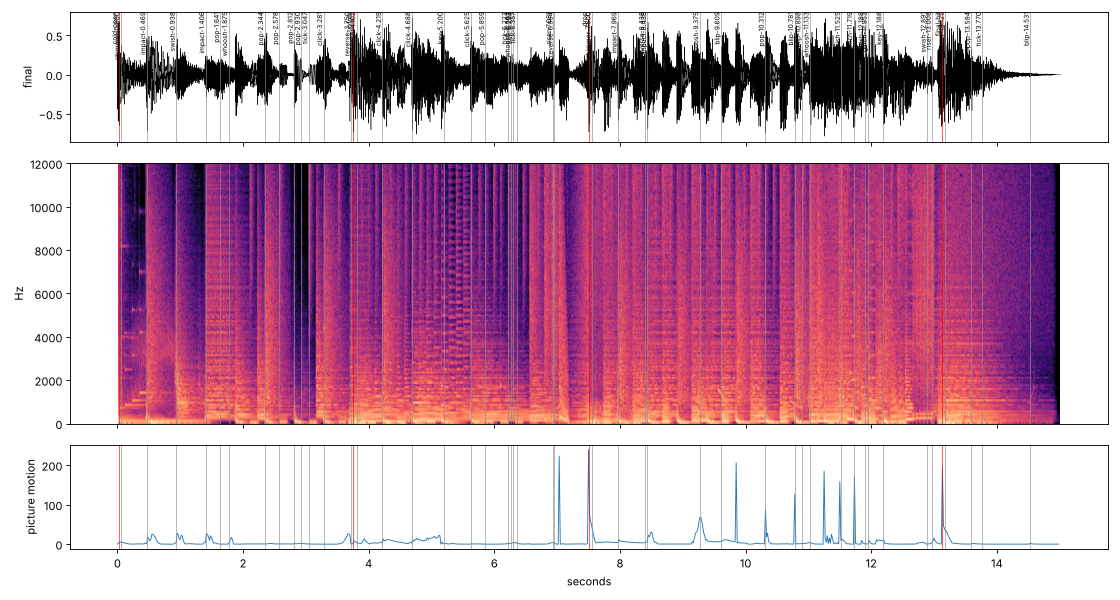
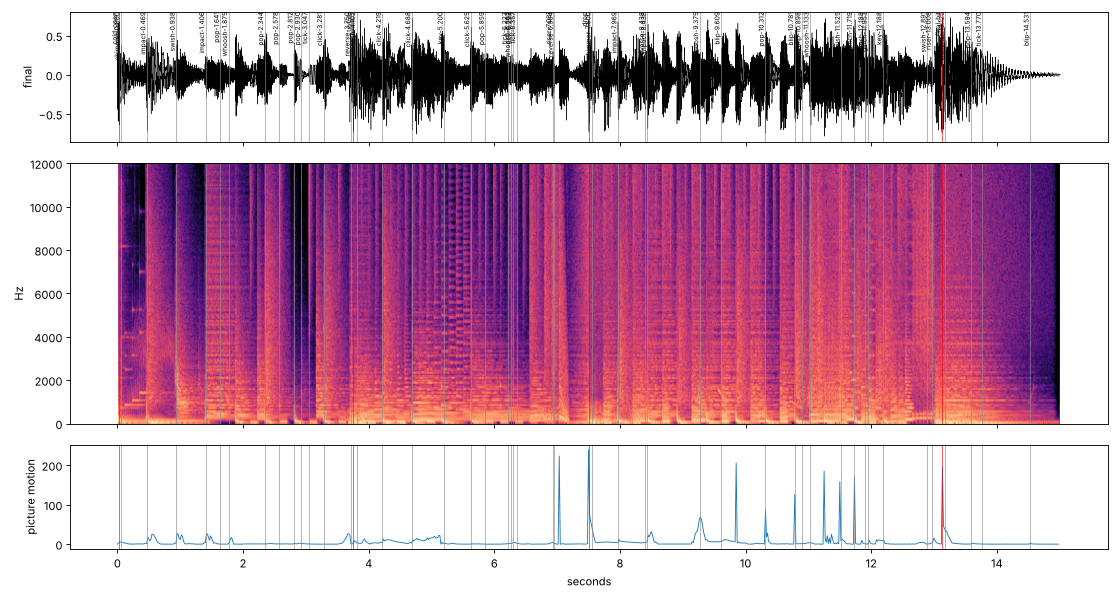
Sound trial round 5: use the bass drop set under the final hit
Omarie picked braam + bass drop + rugged sub by ear. It's 2.9 dB louder
over the hit than round 4 and 0.3 dB louder than the synth version, but
its 125-250 Hz lift is 2.5 dB (needs 3) and blip-14.531 lands 3.00
frames late, so QA FAILs go 9 -> 11. The README keeps the table of all
six sets, with deep hit + rugged sub as the one the checks passed.
CREDITS adds the bass drop (29 recordings).

Claude-Session: https://claude.ai/code/session_01Koa4bvsMWd58fJM3nGk25F

diff --git a/showreel/sound-trial/convert.py b/showreel/sound-trial/convert.py
@@ -20,9 +20,10 @@ HERO = {
     3.75:   ("unfold",    "hit/fs-57893-dun-wav-1+boom/fs-201748-bass-rugged-sub-2-3", None),
     7.5:    ("drop",      "hit/fs-558238-distorted-impact-short-wav-1+boom/fs-636624-deep-hit-2", "cut"),
     # round 3: a boom with body at 114 Hz, under the braam (round 2 lifted 125-250 Hz by 2.9 dB, needs 3).
-    # round 5, "make the final hit hit harder": the unfold's rugged sub added as a third layer. Of six layer sets
-    # tried under the braam, it is the one that lifts 125-250 Hz past 3 dB (3.5) without a new FAIL
-    13.125: ("final-hit", "hit/fs-592034-braams-hit-1-1+boom/fs-636624-deep-hit-2+boom/fs-201748-bass-rugged-sub-2-3", None),
+    # round 5, "make the final hit hit harder": six layer sets tried under the braam. Omarie picked this one by ear
+    # ("use the bass drop version"): the loudest of them, though its 125-250 Hz lift is 2.5 dB (needs 3) and
+    # blip-14.531 lands 3.00 frames late. deep hit + rugged sub passed both (3.5 dB)
+    13.125: ("final-hit", "hit/fs-592034-braams-hit-1-1+boom/fs-212768-bass-drop-3+boom/fs-201748-bass-rugged-sub-2-3", None),
 }
 SUPPORT_IMPACT = {1.0: "hit/fs-443494-thud2-wav-1+thump/fs-458877-thump-1"}   # the HEAVY slam
 IMPACT = "hit/fs-243375-tire-puncture-pop-hit-punch-1"      # round 2: thud2 was buried at 125-250 Hz

diff --git a/showreel/sound-trial/README.md b/showreel/sound-trial/README.md
@@ -15,7 +15,7 @@ The trial mp4 (13.9 MB) is delivered separately and isn't committed. Rebuild it 
 | `cues.json` | the cue sheet that was mixed: 50 cues, 4 of them heroes |
 | `mix-report.json` | the mixer's report: gain, alignment and band for every event, plus master loudness |
 | `qa-report.json`, `qa.png` | `qa.py`'s results and its picture (waveform, spectrogram and motion, with every cue marked) |
-| `CREDITS.md` | the 28 recordings the mix plays |
+| `CREDITS.md` | the 29 recordings the mix plays |
 | `LISTEN.md` | five timecodes to check by ear, and every sound left out |
 
 ## Rebuild
@@ -50,28 +50,29 @@ the drop, and round 5 made the final hit hit harder.
 | round 3 | 51 | 11 | sounds measured as buried in round 2 dropped, the cold open aligned to frame 0, a new boom under the final hit |
 | fix | 52 | 11 | a bug, not a tuning round: the per-time sound overrides also caught the swells ending at those times, so reverse-7.500 played a shimmer and the whooshes at 11.13 and 12.19 played a cork pop. Each swell now plays its own family, and reverse-8.438 (dropped after being measured on the wrong file) is back |
 | round 4 | 50 | 11 | the gap before the drop filled: the bed now keeps the synth's own swells through the score's dead stops (`--mute hits`), and the two recorded reverses that landed there (reverse-7.500 and reverse-13.125, solved at −41 and −46 dB against a silent bed) are dropped. 7.20–7.47 s now averages −24.2 dB, against −25.3 dB in the synth version and −51.5 dB before |
-| round 5 | 50 | 9 | the final hit gets a third layer, the unfold's rugged sub, under the braam and the deep hit. Six layer sets were mixed and checked (table below). Its 125–250 Hz lift goes from 2.1 to 3.5 dB, and pop-13.594, which sat under the braam's tail, now lands 0.21 frames from its cue |
+| round 5 | 50 | 11 | the final hit's layers under the braam become the bass drop and the unfold's rugged sub. Six layer sets were mixed and checked (table below), and Omarie picked this one by ear, the loudest. It's 2.9 dB louder over the hit than round 4. Its 125–250 Hz lift goes from 2.1 to 2.5 dB, still under the 3 it needs. pop-13.594, which sat under the braam's tail, now lands 1.64 frames from its cue, and blip-14.531 now lands 3.00 frames late |
 
 Final run, passing:
 - offset 0 ms
 - −14.10 LUFS
-- true peak −1.53 dBTP
+- true peak −1.80 dBTP
 - music level steady, no dips
 - no silences flagged
-- every hero's body: the cold open 3.3 dB, the unfold 3.9, the drop 3.3 and the final hit 3.5 (needs 3)
+- the cold open's, unfold's and drop's body: 3.3, 3.9 and 3.3 dB (needs 3)
 - the unfold, drop and final hit 0 frames from their cues; the cold open starts on frame 0 (start-aligned, so QA has no sync row for it)
 - the drop's picture cut on frame 450
 
-The 9 FAILs left:
+The 11 FAILs left:
 - audible, under the score in their own band (needs 1.5 dB):
-  - tick-3.047: 0.9 dB
+  - tick-3.047: 0.8 dB
   - impact-8.438: 0.7 dB
   - blip-9.609: 1.5 dB
   - whoosh-11.133: 0.8 dB
   - glitch-11.953: 1.2 dB
   - whoosh-12.188: 0.7 dB
   - key-12.188: 1.3 dB
-- sync: tick-6.357 (2.12 frames), blip-10.898 (2.85 frames)
+- sync: tick-6.357 (2.12 frames), blip-10.898 (2.85 frames), blip-14.531 (3.00 frames)
+- hero body: final-hit lifted 2.5 dB in 125–250 Hz (needs 3). This is the set Omarie picked by ear; deep hit + rugged sub passed at 3.5 dB (table below).
 
 The 5 warnings: the landing pops at 2.344, 2.578, 2.812, 2.930 and 13.594 sit where the picture's whole-frame
 motion doesn't stop. The landing dot is too small to register.
@@ -94,11 +95,11 @@ Each set was mixed into the same cue sheet, with only the final hit's sound chan
 | bass drop 3 | 2.8 dB | 13 | | | adds 2 FAILs at tick-13.770 |
 | fat sub kick | 2.1 dB | 10 | | | |
 | gloss stomp sub | 3.5 dB | 10 | | | true peak −0.97 dBTP fails (limit −1.0) |
-| **deep hit + rugged sub** | **3.5 dB** | **9** | **−11.3 dB** | **−13.8 dB** | picked |
+| deep hit + rugged sub | 3.5 dB | 9 | −11.3 dB | −13.8 dB | the checks' pick |
 | deep hit + rugged sub + fat sub kick | 2.0 dB | 10 | −12.0 dB | −14.7 dB | |
-| bass drop 3 + rugged sub | 2.5 dB | 11 | −10.2 dB | −11.9 dB | louder than the synth there, but fails 2 checks the picked set passes: its body and blip-14.531's sync (3.00 frames) |
+| **bass drop 3 + rugged sub** | **2.5 dB** | **11** | **−10.2 dB** | **−11.9 dB** | **Omarie's pick, by ear.** Louder than the synth there, but fails 2 checks the set above passes: its body and blip-14.531's sync (3.00 frames) |
 
-The picked set is 1.8 dB louder over the hit than round 4 and 3.3 dB louder through the low-pass. It's still 0.8 dB under
-the synth over the hit, and 1.5 dB under it through the low-pass. The mixer solves every hero's gain itself, from one band (here
+The set in the mix is 2.9 dB louder over the hit than round 4 and 5.2 dB louder through the low-pass. Against the
+synth it's 0.3 dB louder over the hit and 0.4 dB louder through the low-pass. The mixer solves every hero's gain itself, from one band (here
 125–250 Hz), and a cue sheet has no gain field, so without changing the scripts the weight has to come from the
 layers.

diff --git a/showreel/sound-trial/LISTEN.md b/showreel/sound-trial/LISTEN.md
@@ -10,7 +10,7 @@ answer the questions below; your ears can.
 | 2 | 3.75 | the box unfolds: dun + rugged sub | Does the sub carry the unfold as the synth's did? QA: sync 0, body 3.9 dB. |
 | 3 | 7.20–7.60 | **the drop** | The run-up is back. Round 4 keeps the synth's own swell through the score's dead stop, because a recorded one placed there is mixed nearly silent. 7.20–7.47 s averages −24.2 dB, against −25.3 dB in the synth version and −51.5 dB in rounds 1–3. Does the recorded drop land on it as hard as the synth's does? QA: sync 0, stands out 5.0 dB, body 3.3 dB. |
 | 4 | 9.40–12.30 | the RANGE passage: glitches, blips, ticks, whooshes | Busy or clean? QA measures the two whooshes (11.13, 12.19), a blip (9.61), a glitch (11.95) and the key (12.19) as under the score, and blip-10.898 as 2.85 frames late. 13 sounds from this stretch were dropped as inaudible (list below). |
-| 5 | 13.125 | final hit: braam + deep hit + rugged sub | Round 5 added the rugged sub to make it hit harder. Does it land as hard as the synth now? QA: sync 0, body 3.5 dB (needs 3; it was 2.1). Over 13.10–13.40 s it measures −11.3 dB, against −13.1 dB in round 4 and −10.5 dB in the synth version. The synth's swell through the short dead stop before it (13.01–13.13 s) is back too. |
+| 5 | 13.125 | final hit: braam + bass drop + rugged sub | Round 5 made it hit harder; this is the set picked by ear. Does it land as hard as the synth now? Over 13.10–13.40 s it measures −10.2 dB, against −13.1 dB in round 4 and −10.5 dB in the synth version. QA: sync 0, but body 2.5 dB (needs 3; it was 2.1), the one hero check that fails. The synth's swell through the short dead stop before it (13.01–13.13 s) is back too. |
 
 ## Sounds left out
 

diff --git a/showreel/sound-trial/CREDITS.md b/showreel/sound-trial/CREDITS.md
@@ -1,4 +1,4 @@
-# Sound credits (28 recordings)
+# Sound credits (29 recordings)
 
 These are the recordings the trial mix plays. All are CC0 (public domain) and come from the opus-sound-layer kit
 (https://github.com/Bodila51/opus-sound-layer). CC0 doesn't require credit, but it's given here. The kit's own
@@ -7,6 +7,7 @@ CREDITS.md lists all 1,139 sounds.
 - Kenney (kenney.nl), Digital Audio, CC0, https://kenney.nl/assets/digital-audio (ui/kenney-digital-high-down, ui/kenney-digital-high-up)
 - Kenney (kenney.nl), Interface Sounds, CC0, https://kenney.nl/assets/interface-sounds (click/kenney-interface-switch-001)
 - boom/fs-201748-bass-rugged-sub-2-3: "[Bass] Rugged sub 2" by waveplaySFX, CC0, https://freesound.org/people/waveplaySFX/sounds/201748
+- boom/fs-212768-bass-drop-3: "Bass Drop" by qubodup, CC0, https://freesound.org/people/qubodup/sounds/212768
 - boom/fs-223838-expriements-bass-8-mp3-2: "Expriements - bass 8 .mp3" by Wonki_B, CC0, https://freesound.org/people/Wonki_B/sounds/223838
 - boom/fs-636624-deep-hit-2: "Deep hit" by CogFireStudios, CC0, https://freesound.org/people/CogFireStudios/sounds/636624
 - click/fs-399443-mouse-clicks: "mouse clicks" by chestnutjam, CC0, https://freesound.org/people/chestnutjam/sounds/399443
